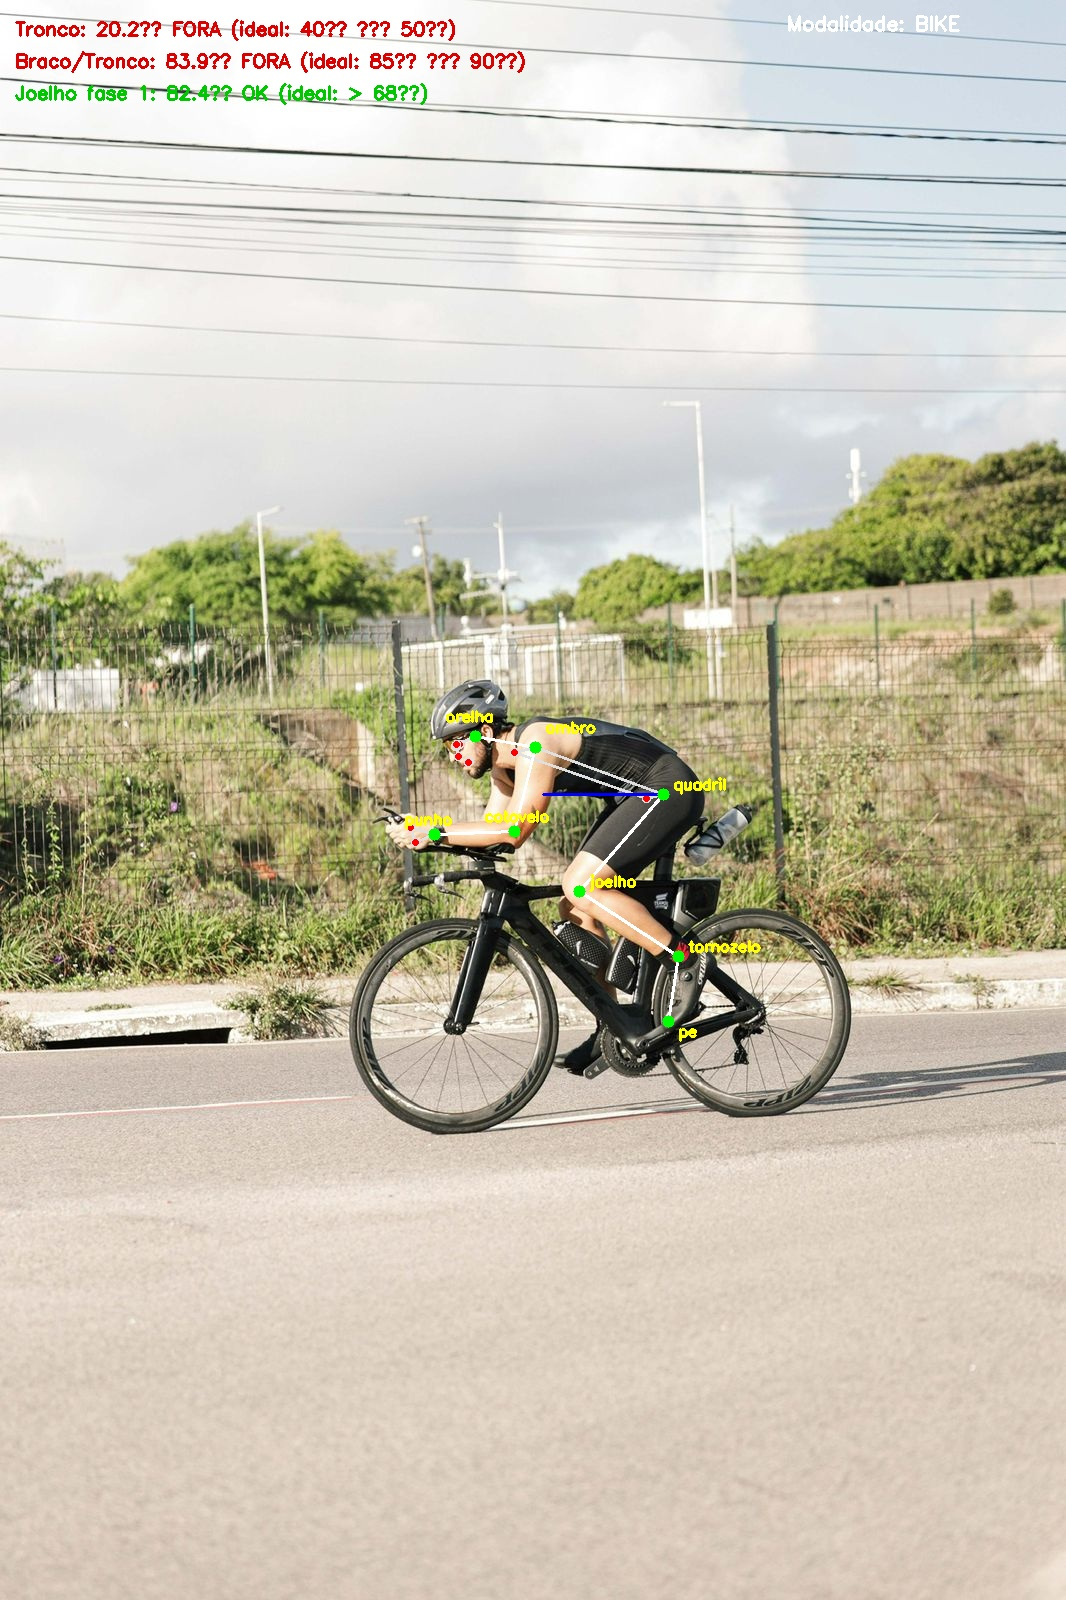
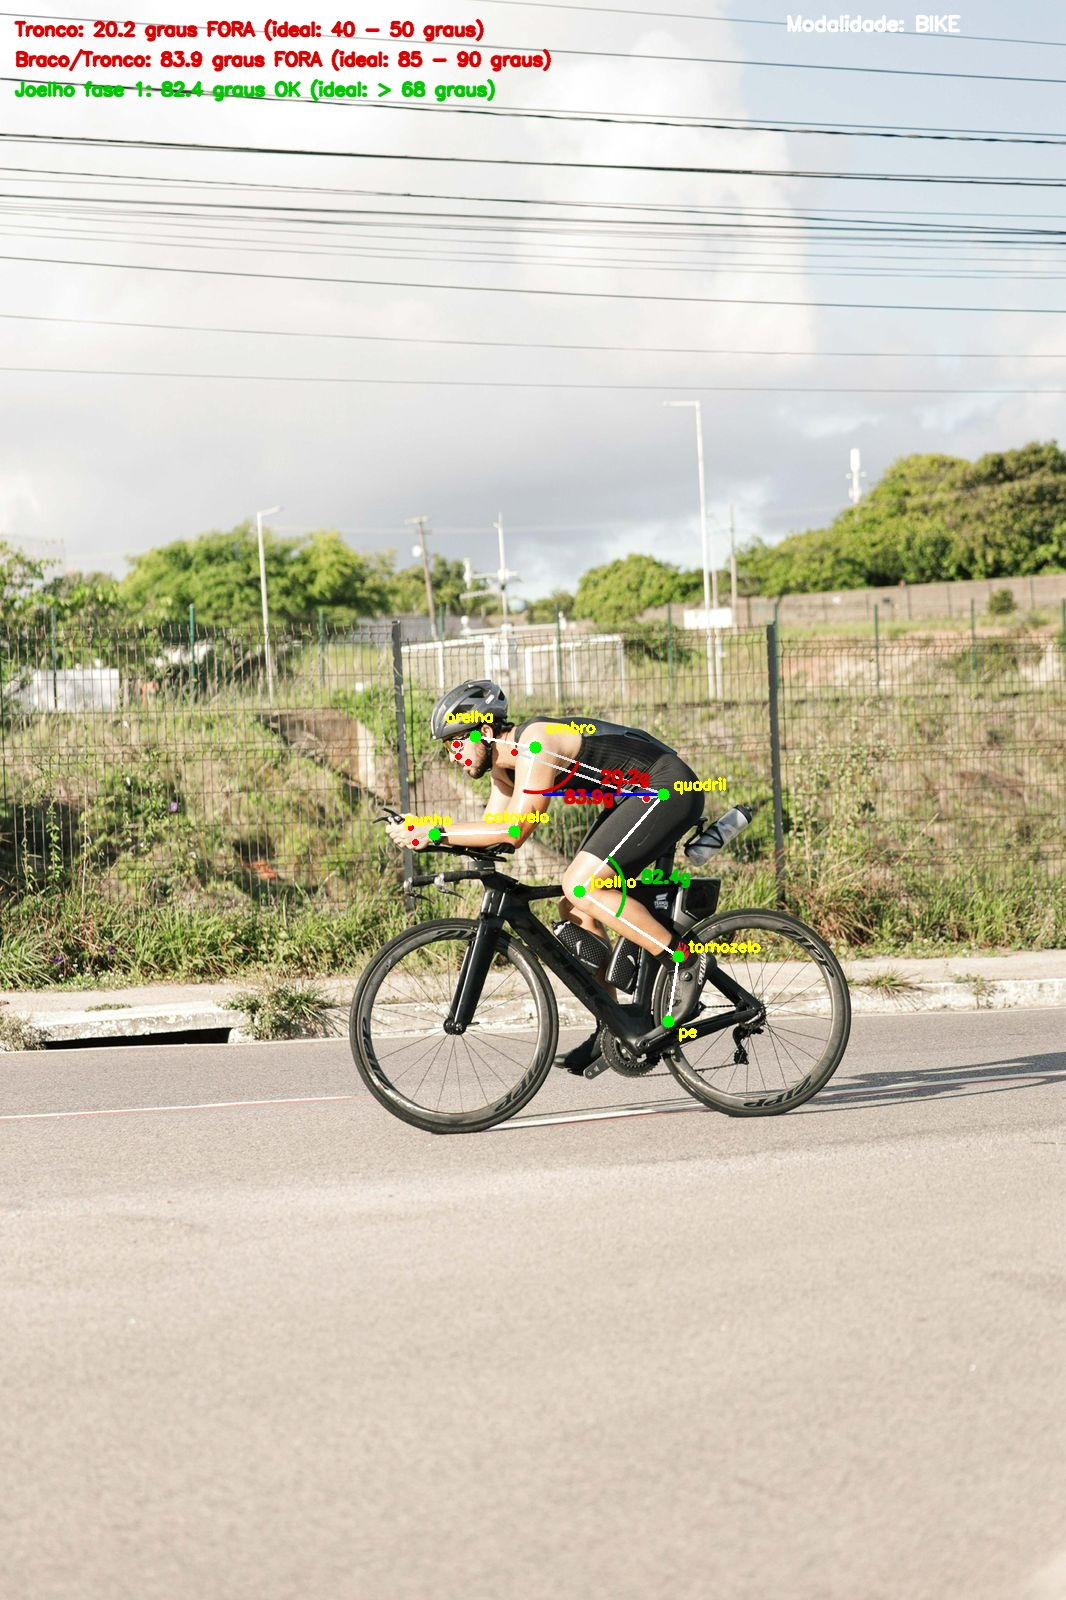
feat -Add angulacao nas articulacoes

Changed region(s): [[0.0, 0.0, 0.5263, 0.0625], [0.4953, 0.4688, 0.6191, 0.5], [0.5572, 0.5312, 0.6501, 0.5625]]

diff --git a/src/io/imagemBike.py b/src/io/imagemBike.py
@@ -5,8 +5,9 @@ from pathlib import Path
 
 import cv2
 import mediapipe as mp
-
 from src.domain.models import SnapshotPostural
+import math
+import numpy as np
 
 EXTENSOES_VALIDAS = {".jpg", ".jpeg", ".png", ".bmp", ".webp"}
 
@@ -33,6 +34,58 @@ def carregar_imagem(caminho: Path):
     return cv2.imread(str(caminho))
 
 
+def _desenhar_arco_e_valor(
+    imagem,
+    vertice: tuple,
+    ponto_a: tuple,
+    ponto_b: tuple,
+    angulo_graus: float,
+    cor: tuple,
+    raio: int = 45,
+):
+    """Desenha o arco entre dois segmentos e o valor do ângulo próximo ao vértice."""
+    # Ângulo de cada segmento em relação ao eixo X
+    angulo_a = math.degrees(math.atan2(ponto_a[1] - vertice[1], ponto_a[0] - vertice[0]))
+    angulo_b = math.degrees(math.atan2(ponto_b[1] - vertice[1], ponto_b[0] - vertice[0]))
+
+    # Garante que o arco vai pelo caminho mais curto
+    inicio = min(angulo_a, angulo_b)
+    fim = max(angulo_a, angulo_b)
+
+    # Se a diferença for maior que 180°, inverte para pegar o arco menor
+    if fim - inicio > 180:
+        inicio, fim = fim, inicio + 360
+
+    cv2.ellipse(
+        imagem,
+        vertice,
+        (raio, raio),
+        0,
+        inicio,
+        fim,
+        cor,
+        2,
+        cv2.LINE_AA,
+    )
+
+    # Posição do texto: meio do arco, um pouco afastado do vértice
+    angulo_meio = math.radians((inicio + fim) / 2)
+    offset = raio + 18
+    texto_x = int(vertice[0] + offset * math.cos(angulo_meio))
+    texto_y = int(vertice[1] + offset * math.sin(angulo_meio))
+
+    cv2.putText(
+        imagem,
+        f"{angulo_graus:.1f}g",
+        (texto_x, texto_y),
+        cv2.FONT_HERSHEY_SIMPLEX,
+        0.55,
+        cor,
+        2,
+        cv2.LINE_AA,
+    )
+
+
 def salvar_imagem_anotada(
     imagem_original,
     snapshot: SnapshotPostural,
@@ -42,6 +95,7 @@ def salvar_imagem_anotada(
     imagem = imagem_original.copy()
     modulo_pose = mp.solutions.pose
     modulo_desenho = mp.solutions.drawing_utils
+    p = snapshot.pontos
 
     # Esqueleto completo do MediaPipe
     modulo_desenho.draw_landmarks(imagem, landmarks_mediapipe, modulo_pose.POSE_CONNECTIONS)
@@ -52,32 +106,50 @@ def salvar_imagem_anotada(
         ("quadril", "joelho"), ("joelho", "tornozelo"), ("tornozelo", "pe"),
     ]
     for origem, destino in pares:
-        cv2.line(imagem, snapshot.pontos[origem], snapshot.pontos[destino], (255, 255, 255), 2)
+        cv2.line(imagem, p[origem], p[destino], (255, 255, 255), 2)
 
     # Linha de referência horizontal a partir do quadril (só bike)
     if snapshot.modalidade == "bike":
-        quadril = snapshot.pontos["quadril"]
-        cv2.line(imagem, quadril, (quadril[0] - 120, quadril[1]), (255, 0, 0), 2)
+        cv2.line(imagem, p["quadril"], (p["quadril"][0] - 120, p["quadril"][1]), (255, 0, 0), 2)
 
     # Pontos e rótulos
-    for nome, ponto in snapshot.pontos.items():
+    for nome, ponto in p.items():
         dx, dy = DESLOCAMENTOS_ROTULOS.get(nome, (10, -10))
         cv2.circle(imagem, ponto, 6, (0, 255, 0), -1)
         cv2.putText(imagem, nome, (ponto[0] + dx, ponto[1] + dy),
                     cv2.FONT_HERSHEY_SIMPLEX, 0.5, (0, 255, 255), 2)
 
-    # Ângulos e avaliações — empilhados no canto superior esquerdo
+    # Arcos sobre as articulações
+    for resultado in snapshot.angulos:
+        cor = (0, 200, 0) if resultado.dentro_do_padrao else (0, 0, 220)
+
+        if resultado.nome == "Tronco":
+            # Vértice: quadril | segmentos: quadril→ombro e horizontal
+            referencia_horizontal = (p["quadril"][0] - 120, p["quadril"][1])
+            _desenhar_arco_e_valor(imagem, p["quadril"], p["ombro"], referencia_horizontal,
+                                   resultado.valor, cor)
+
+        elif "Joelho" in resultado.nome:
+            # Vértice: joelho | segmentos: joelho→quadril e joelho→tornozelo
+            _desenhar_arco_e_valor(imagem, p["joelho"], p["quadril"], p["tornozelo"],
+                                   resultado.valor, cor)
+
+        elif "Braco" in resultado.nome:
+            # Vértice: ombro | segmentos: ombro→quadril e ombro→cotovelo
+            _desenhar_arco_e_valor(imagem, p["ombro"], p["quadril"], p["cotovelo"],
+                                   resultado.valor, cor)
+
+    # Painel de resultados no canto superior esquerdo
     y = 35
     for resultado in snapshot.angulos:
         cor = (0, 200, 0) if resultado.dentro_do_padrao else (0, 0, 220)
         cv2.putText(imagem, resultado.mensagem, (15, y),
-                    cv2.FONT_HERSHEY_SIMPLEX, 0.62, cor, 2)
-        y += 32
+                    cv2.FONT_HERSHEY_SIMPLEX, 0.6, cor, 2, cv2.LINE_AA)
+        y += 30
 
     # Modalidade no canto superior direito
     largura = imagem.shape[1]
-    label_modalidade = f"Modalidade: {snapshot.modalidade.upper()}"
-    cv2.putText(imagem, label_modalidade, (largura - 280, 30),
-                cv2.FONT_HERSHEY_SIMPLEX, 0.65, (255, 255, 255), 2)
+    cv2.putText(imagem, f"Modalidade: {snapshot.modalidade.upper()}", (largura - 280, 30),
+                cv2.FONT_HERSHEY_SIMPLEX, 0.65, (255, 255, 255), 2, cv2.LINE_AA)
 
     return cv2.imwrite(str(caminho_saida), imagem)

diff --git a/src/services/analiseService.py b/src/services/analiseService.py
@@ -6,11 +6,9 @@ from src.analyzers.poseAnalyzer import AnalisadorDePose
 from src.domain.models import SnapshotPostural
 from src.io.imagemBike import carregar_imagem, listar_imagens, salvar_imagem_anotada
 
-
-def _perguntar_modalidade(nome_arquivo: str) -> str:
-    """Pergunta ao usuário se a foto é de bike ou corrida."""
+def _perguntar_modalidade(numero: int) -> str:
     while True:
-        resposta = input(f"\n[{nome_arquivo}] Modalidade — bike (b) ou corrida (c)? ").strip().lower()
+        resposta = input(f"\nImagem {numero} — bike (b) ou corrida (c)? ").strip().lower()
         if resposta in ("b", "bike"):
             return "bike"
         if resposta in ("c", "corrida"):
@@ -18,22 +16,20 @@ def _perguntar_modalidade(nome_arquivo: str) -> str:
         print("  Digite 'b' para bike ou 'c' para corrida.")
 
 
-def _perguntar_fase_joelho(nome_arquivo: str, modalidade: str) -> int:
-    """Pergunta ao usuário a fase do joelho conforme a modalidade."""
+def _perguntar_fase_joelho(numero: int, modalidade: str) -> int:
     if modalidade == "bike":
         descricao = "1 - fase superior  |  2 - extensão máxima"
     else:
         descricao = "1 - contato inicial  |  2 - apoio médio"
 
     while True:
-        resposta = input(f"[{nome_arquivo}] Fase do joelho ({descricao}): ").strip()
+        resposta = input(f"Imagem {numero} — fase do joelho ({descricao}): ").strip()
         if resposta in ("1", "2"):
             return int(resposta)
         print("  Digite 1 ou 2.")
 
 
 def processar_pasta(pasta_entrada: Path, pasta_saida: Path):
-    """Processa todas as imagens da pasta de entrada e salva os resultados."""
     pasta_saida.mkdir(exist_ok=True)
 
     imagens = listar_imagens(pasta_entrada)
@@ -42,17 +38,16 @@ def processar_pasta(pasta_entrada: Path, pasta_saida: Path):
         return
 
     total = len(imagens)
-    sucesso = 0
 
-    # Coleta todas as respostas antes de processar
     print(f"\n{'='*50}")
     print(f"  {total} imagem(ns) encontrada(s). Responda as perguntas:")
     print(f"{'='*50}")
 
+    # Coleta respostas com numeração
     snapshots_configurados = []
-    for caminho in imagens:
-        modalidade = _perguntar_modalidade(caminho.name)
-        fase = _perguntar_fase_joelho(caminho.name, modalidade)
+    for numero, caminho in enumerate(imagens, start=1):
+        modalidade = _perguntar_modalidade(numero)
+        fase = _perguntar_fase_joelho(numero, modalidade)
         snapshot = SnapshotPostural(
             caminho_imagem=caminho,
             modalidade=modalidade,
@@ -60,34 +55,34 @@ def processar_pasta(pasta_entrada: Path, pasta_saida: Path):
         )
         snapshots_configurados.append((caminho, snapshot))
 
-    # Processa todas as imagens
     print(f"\n{'='*50}")
     print("  Processando imagens...")
     print(f"{'='*50}\n")
 
+    sucesso = 0
     with AnalisadorDePose() as analisador:
-        for caminho, snapshot in snapshots_configurados:
+        for numero, (caminho, snapshot) in enumerate(snapshots_configurados, start=1):
             imagem = carregar_imagem(caminho)
             if imagem is None:
-                print(f"[ERRO] Não foi possível abrir: {caminho.name}")
+                print(f"[ERRO] Imagem {numero} — não foi possível abrir: {caminho.name}")
                 continue
 
             snapshot, landmarks = analisador.processar(imagem, snapshot)
 
             if not snapshot.pose_detectada:
-                print(f"[SEM POSE] {caminho.name}")
+                print(f"[SEM POSE] Imagem {numero} — {caminho.name}")
                 continue
 
             caminho_saida = pasta_saida / f"{caminho.stem}_anotada.jpg"
             salvou = salvar_imagem_anotada(imagem, snapshot, landmarks, caminho_saida)
 
             if salvou:
-                print(f"[OK] {caminho.name} -> {caminho_saida.name}")
+                print(f"[OK] Imagem {numero} — {caminho.name} -> {caminho_saida.name}")
                 for ang in snapshot.angulos:
                     print(f"     {ang.mensagem}")
                 sucesso += 1
             else:
-                print(f"[ERRO] Não foi possível salvar: {caminho_saida.name}")
+                print(f"[ERRO] Imagem {numero} — não foi possível salvar: {caminho_saida.name}")
 
     print(f"\nProcessadas com sucesso: {sucesso}/{total}")
     print(f"Saídas salvas em: {pasta_saida}")

diff --git a/src/analyzers/poseAnalyzer.py b/src/analyzers/poseAnalyzer.py
@@ -8,7 +8,6 @@ import mediapipe as mp
 
 from src.domain.models import ResultadoAngulo, SnapshotPostural
 
-
 class AnalisadorDePose:
     """Detecta pontos corporais e calcula ângulos biomecânicos."""
 
@@ -78,9 +77,9 @@ class AnalisadorDePose:
         return ResultadoAngulo(
             nome="Tronco",
             valor=valor,
-            ideal="40° – 50°",
+            ideal="40 - 50 graus",
             dentro_do_padrao=dentro,
-            mensagem=self._formatar_mensagem("Tronco", valor, "40° – 50°", dentro),
+            mensagem=self._formatar_mensagem("Tronco", valor, "40 - 50 graus", dentro),
         )
 
     def _avaliar_braco_tronco(self, pontos: dict) -> ResultadoAngulo:
@@ -91,9 +90,9 @@ class AnalisadorDePose:
         return ResultadoAngulo(
             nome="Braco/Tronco",
             valor=valor,
-            ideal="85° – 90°",
+            ideal="85 - 90 graus",
             dentro_do_padrao=dentro,
-            mensagem=self._formatar_mensagem("Braco/Tronco", valor, "85° – 90°", dentro),
+            mensagem=self._formatar_mensagem("Braco/Tronco", valor, "85 - 90 graus", dentro),
         )
 
     def _avaliar_joelho_bike(self, pontos: dict, fase: int) -> ResultadoAngulo:
@@ -102,10 +101,10 @@ class AnalisadorDePose:
         )
         if fase == 1:
             dentro = valor > 68.0
-            ideal = "> 68°"
+            ideal = "> 68 graus"
         else:
             dentro = 140.0 <= valor <= 145.0
-            ideal = "140° – 145°"
+            ideal = "140 - 145 graus"
         return ResultadoAngulo(
             nome=f"Joelho (fase {fase})",
             valor=valor,
@@ -122,10 +121,10 @@ class AnalisadorDePose:
         )
         if fase == 1:
             dentro = valor < 160.0
-            ideal = "< 160°"
+            ideal = "< 160 graus"
         else:
             dentro = valor < 140.0
-            ideal = "< 140°"
+            ideal = "< 140 graus"
         return ResultadoAngulo(
             nome=f"Joelho corrida (fase {fase})",
             valor=valor,
@@ -161,8 +160,8 @@ class AnalisadorDePose:
 
     @staticmethod
     def _formatar_mensagem(nome: str, valor: float, ideal: str, dentro: bool) -> str:
-        simbolo = "OK" if dentro else "FORA"
-        return f"{nome}: {valor:.1f}° {simbolo} (ideal: {ideal})"
+        status = "OK" if dentro else "FORA"
+        return f"{nome}: {valor:.1f} graus {status} (ideal: {ideal})"
 
     def fechar(self):
         self._pose.close()
